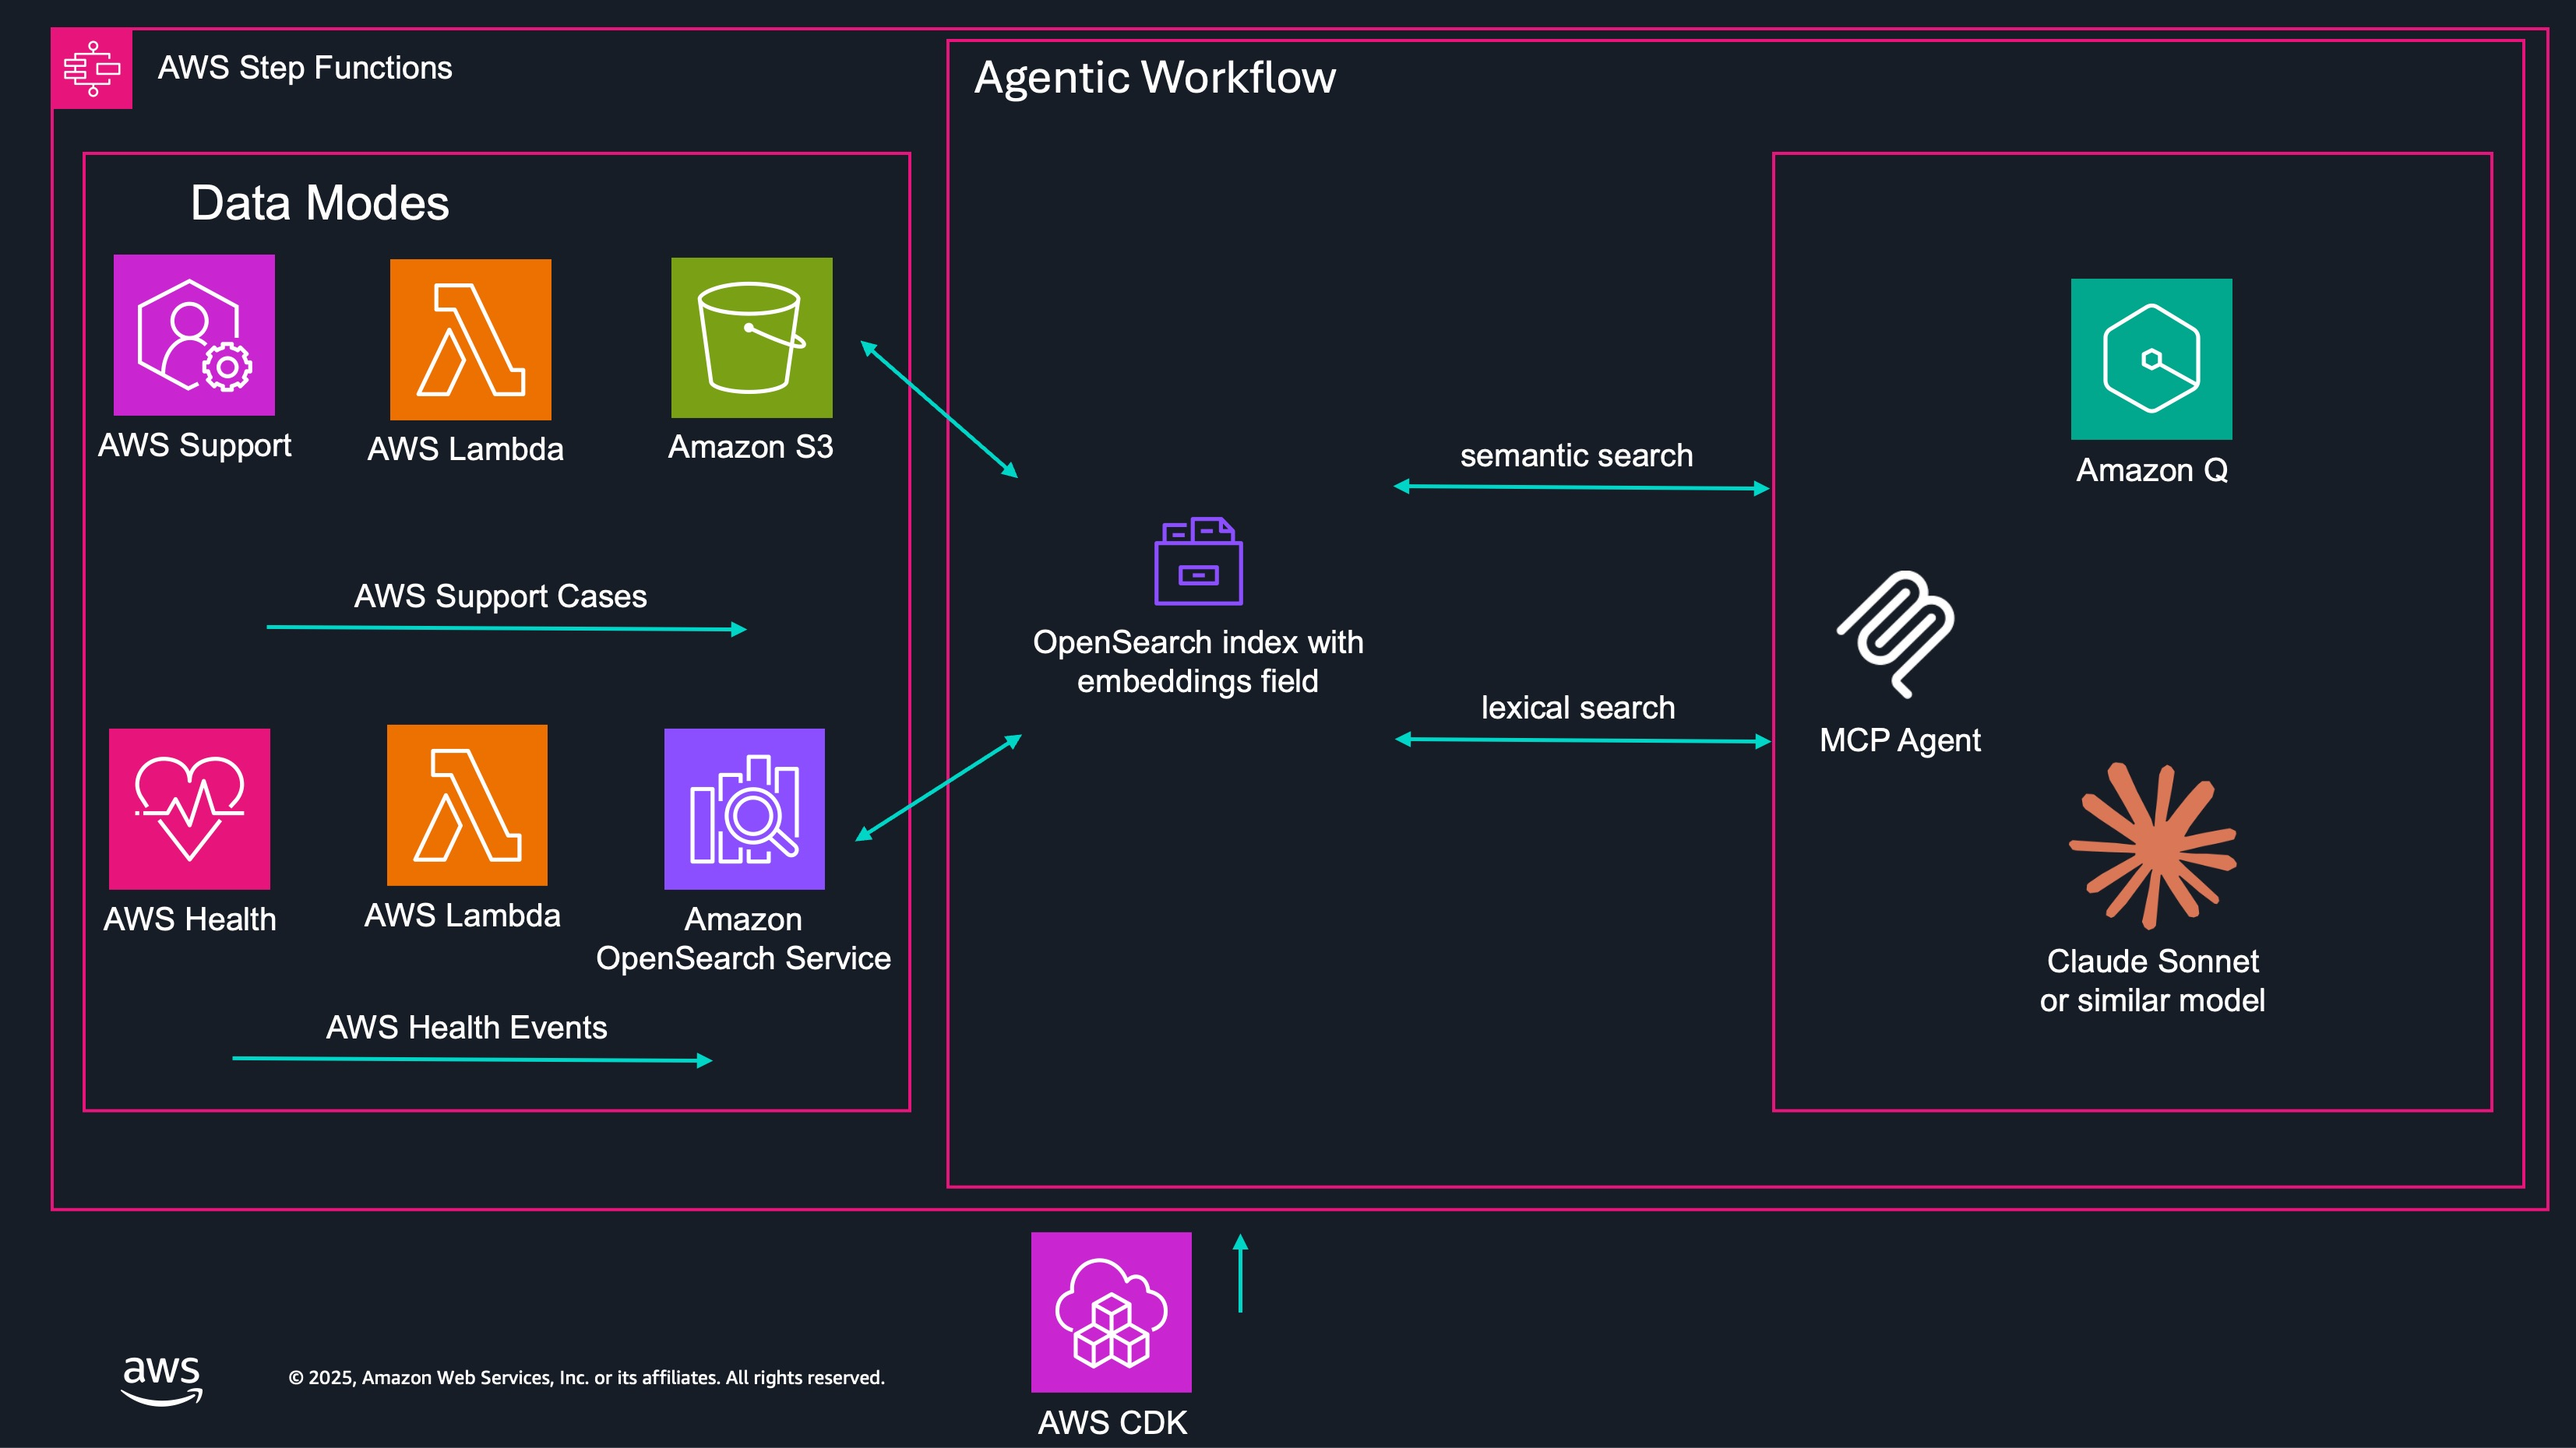
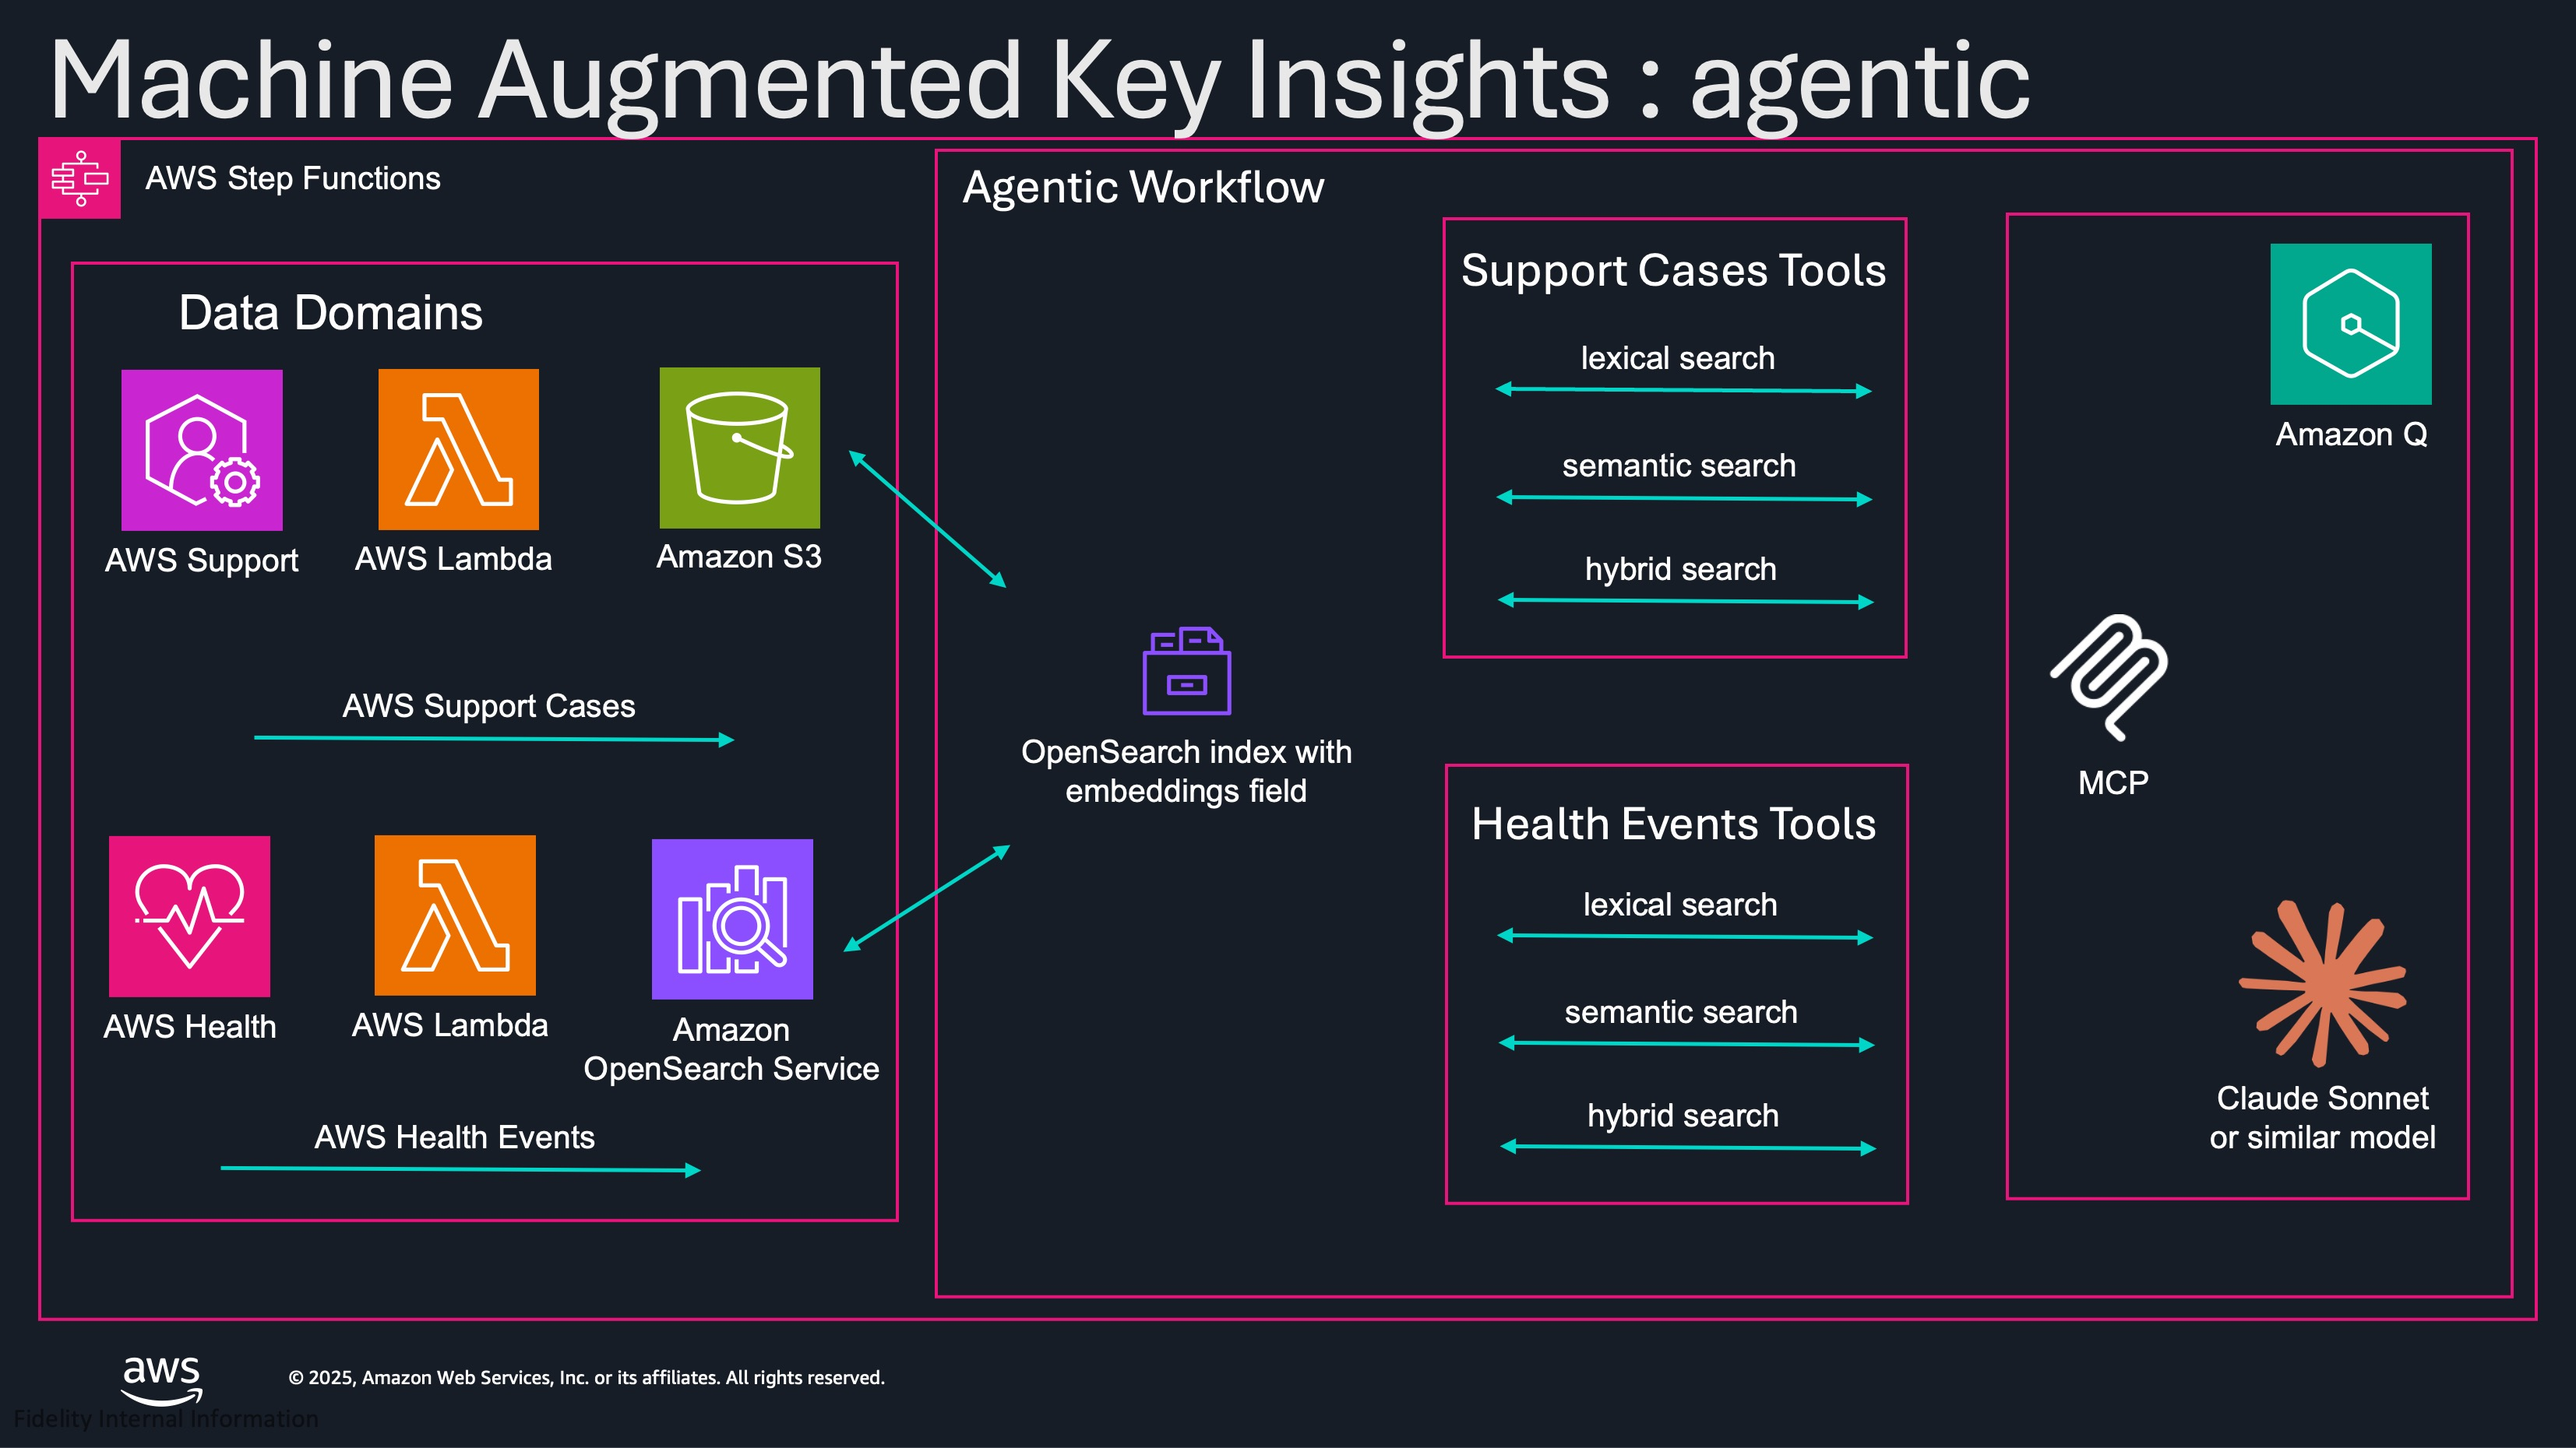
added hybrid search

diff --git a/maki/BuildAgents.py b/maki/BuildAgents.py
@@ -316,6 +316,161 @@ class MakiAgent:
             except Exception as e:
                 return {"error": f"Failed to get index stats: {str(e)}"}
         
+        @self.mcp.tool()
+        def support_cases_hybrid_search(query: str, size: int = 10) -> Dict[str, Any]:
+            """Search AWS Support Cases using hybrid lexical and semantic search against the opensearch index which has both lexical and embeddings fields"""
+            if not self.opensearch_client:
+                return {"error": "OpenSearch not configured. Please deploy MAKI infrastructure first."}
+            
+            try:
+                # Hybrid search combining lexical and semantic approaches
+                search_body = {
+                    "query": {
+                        "bool": {
+                            "should": [
+                                {
+                                    "multi_match": {
+                                        "query": query,
+                                        "fields": [
+                                            "case_summary^2",
+                                            "suggested_action^2", 
+                                            "category_explanation",
+                                            "category",
+                                            "serviceCode"
+                                        ],
+                                        "type": "best_fields"
+                                    }
+                                }
+                            ]
+                        }
+                    },
+                    "size": size
+                }
+                
+                # Try to add semantic search if embeddings are available
+                try:
+                    import boto3
+                    from config import BEDROCK_EMBEDDING_MODEL
+                    
+                    bedrock_client = boto3.client('bedrock-runtime')
+                    response = bedrock_client.invoke_model(
+                        modelId=BEDROCK_EMBEDDING_MODEL,
+                        body=json.dumps({"inputText": query})
+                    )
+                    query_embedding = json.loads(response['body'].read())['embedding']
+                    
+                    # Add semantic search to the hybrid query
+                    search_body["query"]["bool"]["should"].append({
+                        "script_score": {
+                            "query": {"match_all": {}},
+                            "script": {
+                                "source": "cosineSimilarity(params.query_vector, 'case_summary_suggested_action_embedding') + 1.0",
+                                "params": {"query_vector": query_embedding}
+                            }
+                        }
+                    })
+                except:
+                    # Continue with lexical-only search if embedding fails
+                    pass
+                
+                response = self.opensearch_client.search(index="maki-cases", body=search_body)
+                
+                results = []
+                for hit in response['hits']['hits']:
+                    source = hit['_source']
+                    results.append({
+                        "score": hit['_score'],
+                        "case_id": source.get('caseId', 'N/A'),
+                        "category": source.get('category', 'N/A'),
+                        "service": source.get('serviceCode', 'N/A'),
+                        "summary": source.get('case_summary', 'N/A')[:200] + "..." if len(source.get('case_summary', '')) > 200 else source.get('case_summary', 'N/A'),
+                        "suggested_action": source.get('suggested_action', 'N/A')[:200] + "..." if len(source.get('suggested_action', '')) > 200 else source.get('suggested_action', 'N/A')
+                    })
+                
+                return {
+                    "query": query,
+                    "total_hits": response['hits']['total']['value'],
+                    "results": results,
+                    "search_type": "hybrid"
+                }
+                
+            except Exception as e:
+                return {"error": f"Support cases hybrid search failed: {str(e)}"}
+        
+        @self.mcp.tool()
+        def aws_health_events_hybrid_search(query: str, size: int = None, index: str = None) -> Dict[str, Any]:
+            """Search AWS Health Events using hybrid lexical and semantic search against the opensearch index which has both lexical and embeddings fields"""
+            if not self.opensearch_client:
+                return {"error": "OpenSearch not configured. Please deploy MAKI infrastructure first."}
+            
+            # Use defaults from SSM parameters
+            if size is None:
+                size = self.default_size
+            if index is None:
+                index = self.default_index
+            
+            try:
+                # Hybrid search combining lexical and semantic approaches
+                search_body = {
+                    "query": {
+                        "bool": {
+                            "should": [
+                                {
+                                    "query_string": {
+                                        "query": query,
+                                        "default_operator": "OR"
+                                    }
+                                }
+                            ]
+                        }
+                    },
+                    "size": size
+                }
+                
+                # Try to add semantic search if embeddings are available
+                try:
+                    import boto3
+                    from config import BEDROCK_EMBEDDING_MODEL
+                    
+                    bedrock_client = boto3.client('bedrock-runtime')
+                    response = bedrock_client.invoke_model(
+                        modelId=BEDROCK_EMBEDDING_MODEL,
+                        body=json.dumps({"inputText": query})
+                    )
+                    query_embedding = json.loads(response['body'].read())['embedding']
+                    
+                    # Add semantic search to the hybrid query
+                    search_body["query"]["bool"]["should"].append({
+                        "script_score": {
+                            "query": {"match_all": {}},
+                            "script": {
+                                "source": "cosineSimilarity(params.query_vector, 'embedding_field') + 1.0",
+                                "params": {"query_vector": query_embedding}
+                            }
+                        }
+                    })
+                except:
+                    # Continue with lexical-only search if embedding fails
+                    pass
+                
+                response = self.opensearch_client.search(index=index, body=search_body)
+                
+                results = []
+                for hit in response['hits']['hits']:
+                    results.append({
+                        "score": hit['_score'],
+                        "source": hit['_source']
+                    })
+                
+                return {
+                    "query": query,
+                    "total_hits": response['hits']['total']['value'],
+                    "results": results,
+                    "search_type": "hybrid"
+                }
+                
+            except Exception as e:
+                return {"error": f"AWS Health Events hybrid search failed: {str(e)}"}
 
     
     def run(self):
